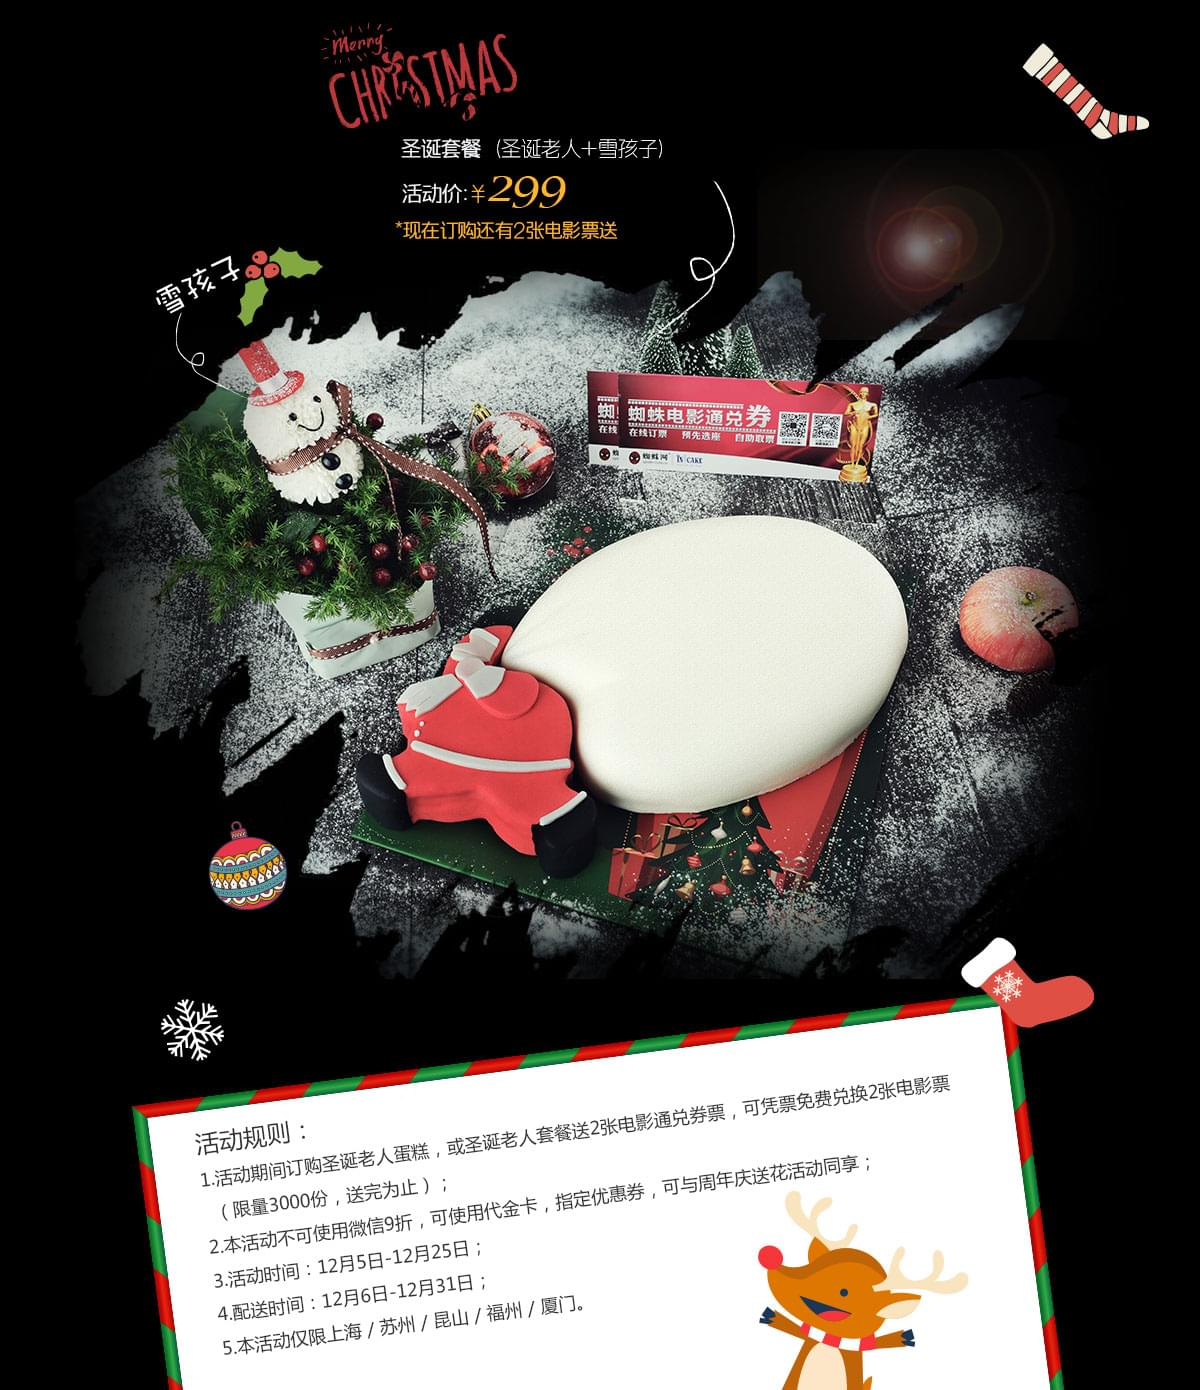
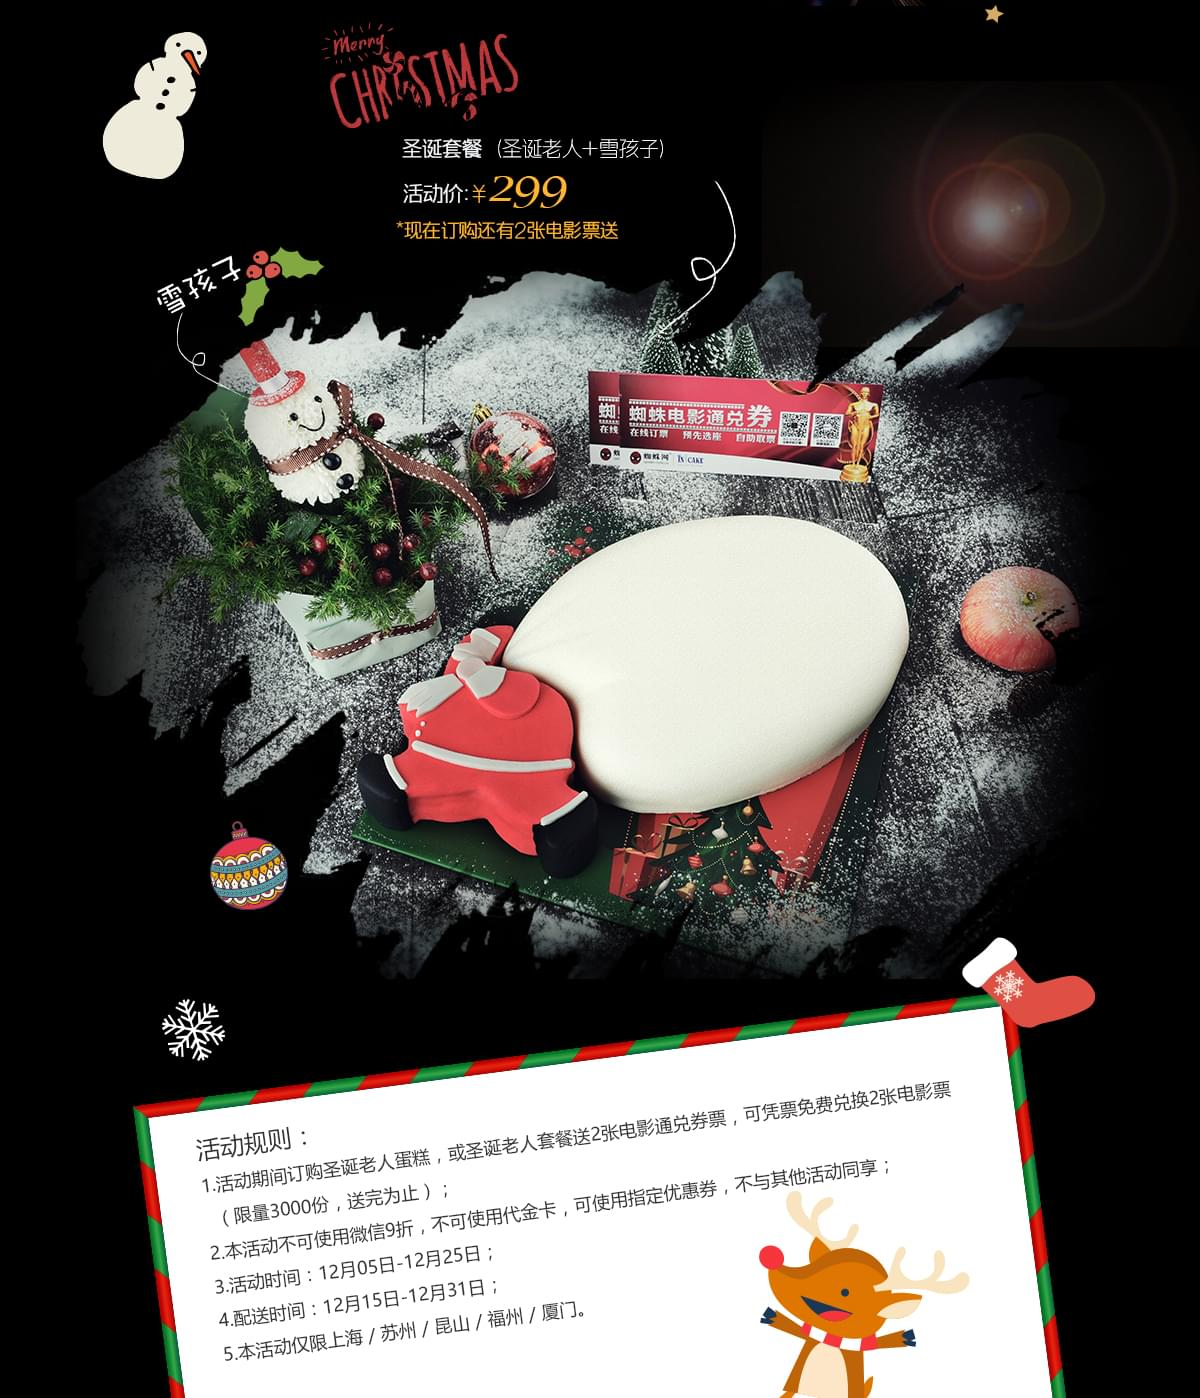
圣诞新品活动页面UI调整

Changed region(s): [[0.0925, 0.0309, 0.9558, 1.0], [0.0617, 0.0, 0.185, 0.1237], [0.8017, 0.0, 0.8325, 0.0309]]

diff --git a/assets/css/merry-christmas-sh.css b/assets/css/merry-christmas-sh.css
@@ -3,13 +3,13 @@
 
 .merryChristmas-wrapper .banner { width: 100%; height: 650px; background: url('../img/merry-christmas-sh/banner.jpg') no-repeat; }
 
-.merryChristmas-wrapper .cake { position: relative; width: 100%; height: 970px; background: url('../img/merry-christmas-sh/cake01.jpg') no-repeat; }
+.merryChristmas-wrapper .cake { position: relative; width: 100%; height: 750px; background: url('../img/merry-christmas-sh/cake01.jpg') no-repeat; }
 .merryChristmas-wrapper .btn-buy { position: absolute; top:-6px; right: 76px; display: block; width: 188px; height: 198px; background: url('../img/merry-christmas-sh/btn_buy.png') no-repeat; -webkit-animation: 1.75s smooth infinite; animation: 1.75s smooth infinite; }
-.merryChristmas-wrapper .cake2 { height: 1390px; background: url('../img/merry-christmas-sh/cake02.jpg') no-repeat; }
+.merryChristmas-wrapper .cake2 { height: 1398px; background: url('../img/merry-christmas-sh/cake02.jpg') no-repeat; }
 .merryChristmas-wrapper .cake2 .btn-buy { top: 26px; right: 330px; }
-.merryChristmas-wrapper .cake-bj { height: 1232px; background: url('../img/merry-christmas-sh/cake.jpg') no-repeat; }
+.merryChristmas-wrapper .cake-bj { height: 1132px; background: url('../img/merry-christmas-sh/cake.jpg') no-repeat; }
 .merryChristmas-wrapper .cake-bj .btn-buy { top: -8px; right: 66px; }
-.merryChristmas-wrapper .cake-qd { height: 1200px; background: url('../img/merry-christmas-sh/cake_qd.jpg') no-repeat; }
+.merryChristmas-wrapper .cake-qd { height: 1112px; background: url('../img/merry-christmas-sh/cake_qd.jpg') no-repeat; }
 /* 呼吸灯样式  */
 @-webkit-keyframes smooth {
 	0% { -webkit-transform: scale(1); }
